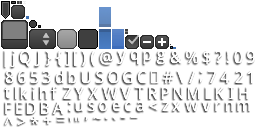
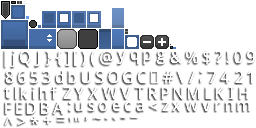
Messed around with GUI a bit more; finished theme.

Changed region(s): [[0.0, 0.0312, 0.5625, 0.4062]]

diff --git a/core/src/net/pixelstatic/codetesting/modules/vertex/VertexGUI.java b/core/src/net/pixelstatic/codetesting/modules/vertex/VertexGUI.java
@@ -79,6 +79,8 @@ public class VertexGUI extends Module{
 		skin.add("blank", new Texture("gui/blank.png"));
 		stage = new Stage();
 		stage.setViewport(new ScreenViewport());
+		skin.getFont("default-font").setUseIntegerPositions(false);
+		skin.getFont("default-font").getData().setScale(0.5f);
 		ActorAlign.stage = stage;
 	}
 
@@ -345,7 +347,7 @@ public class VertexGUI extends Module{
 						//	System.out.println(materialbox.getSelected());
 						Dialog dialog = new Dialog("Edit Filter", skin){
 							public float getPrefWidth(){
-								return 400f;
+								return 250f;
 							}
 
 							public float getPrefHeight(){
@@ -359,7 +361,7 @@ public class VertexGUI extends Module{
 							}
 						});
 
-						dialog.getTitleTable().add(editclosebutton).height(20);
+						dialog.getTitleTable().add(editclosebutton).height(17);
 						dialog.key(Keys.ENTER, true).key(Keys.ESCAPE, false);
 						com.badlogic.gdx.utils.ObjectMap.Keys<String> keys = filter.valueNames(materialbox.getSelected());
 
